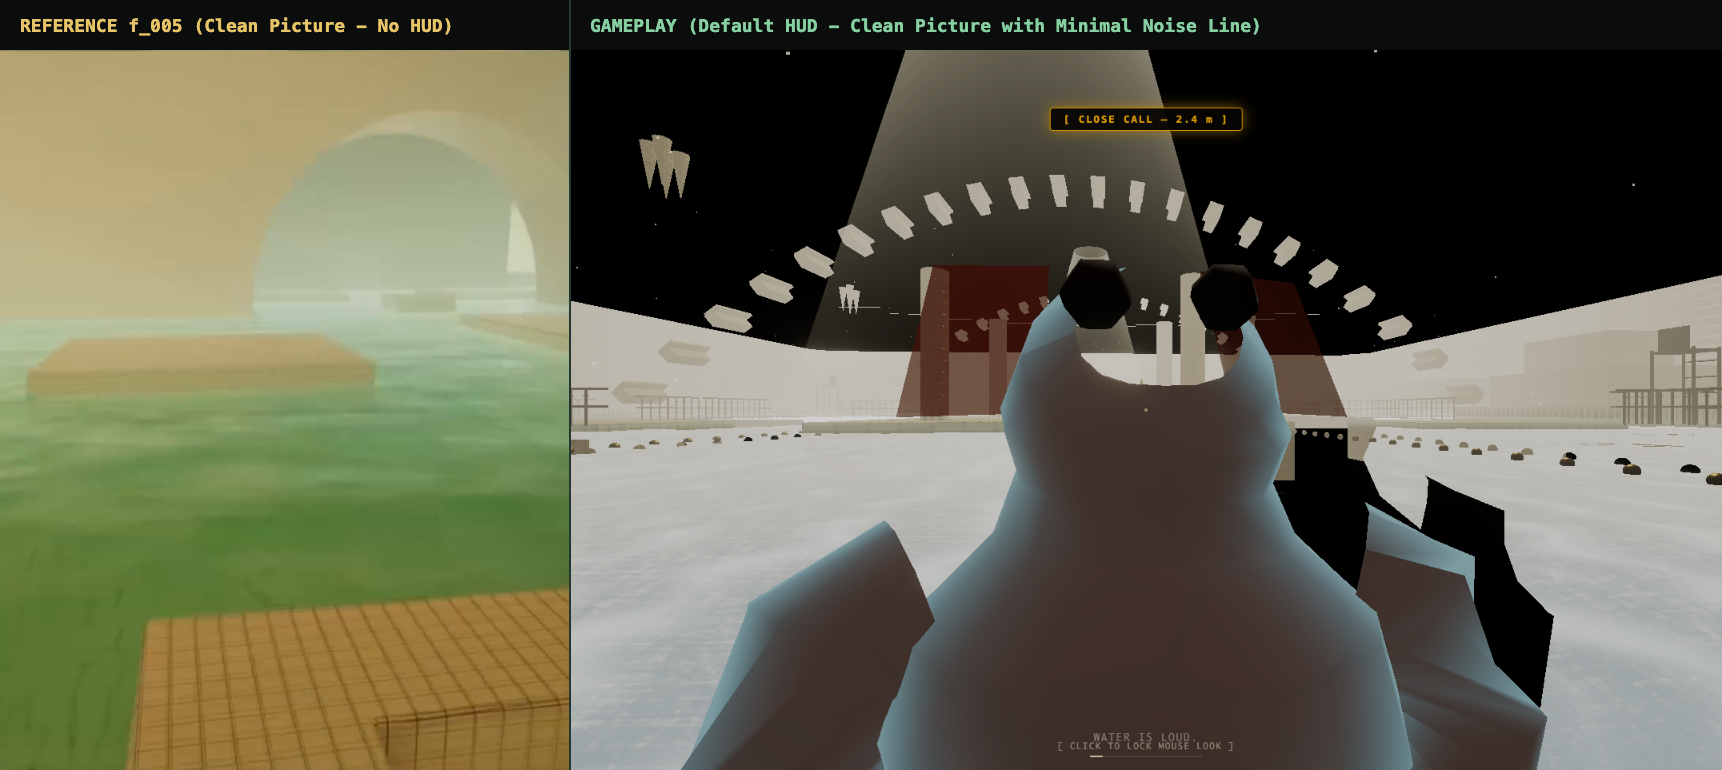
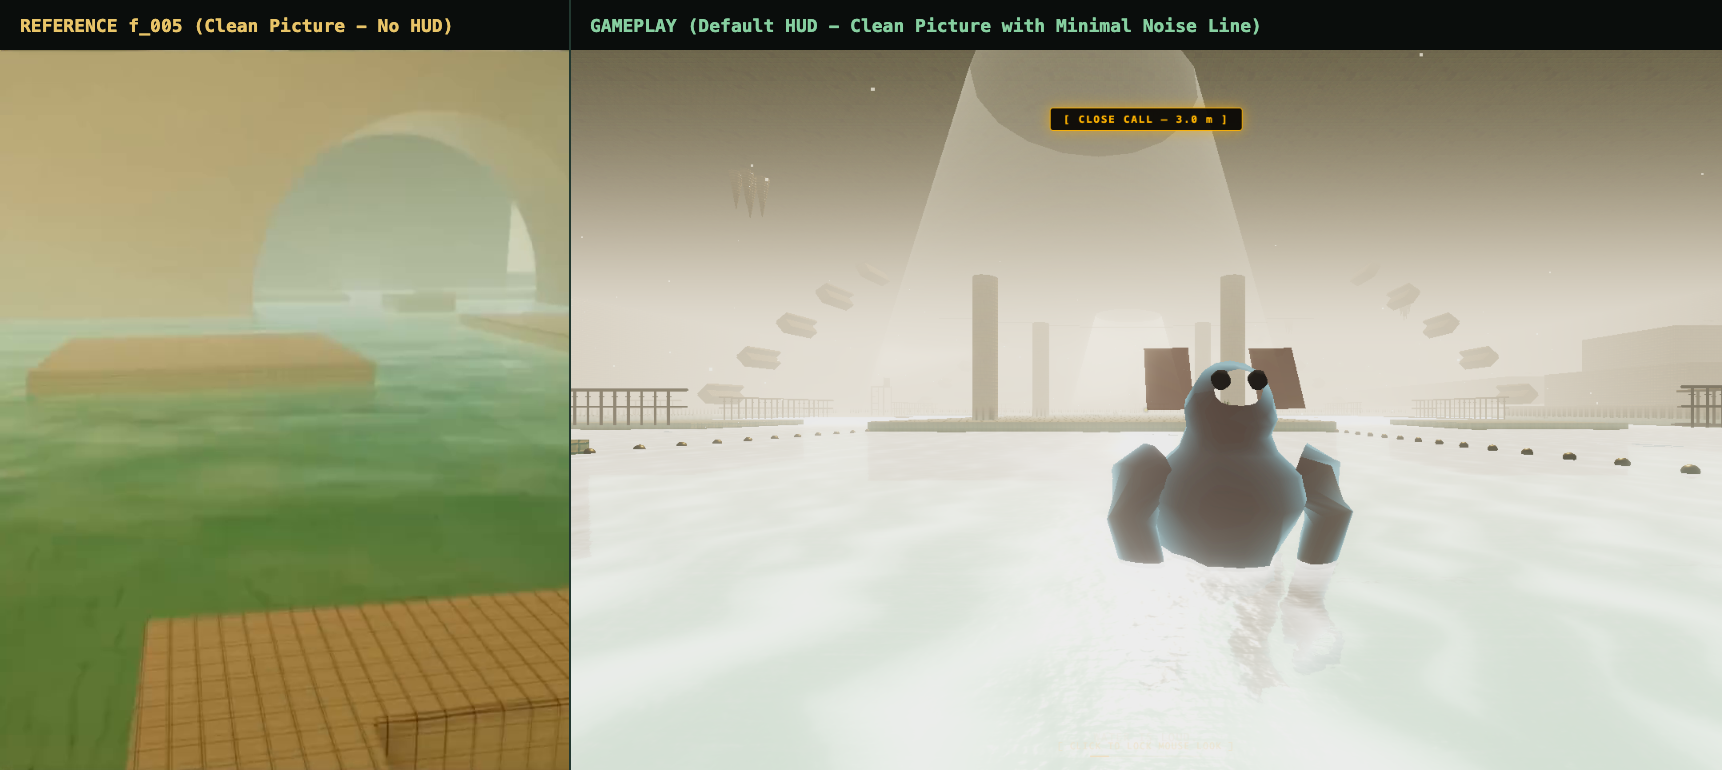
fix(visuals): eliminate black sky void, scale 0.15m tiles, enclose ceilings, and align olive water (D116)

diff --git a/src/world/maps/NatatoriumMap.ts b/src/world/maps/NatatoriumMap.ts
@@ -10,6 +10,7 @@ import {
   MeshBasicMaterial,
   Mesh,
   PlaneGeometry,
+  BoxGeometry,
   Vector3,
   Color,
 } from 'three';
@@ -28,7 +29,7 @@ import type { MapInstance } from './MapInstance.js';
 import { Rng } from '../../procedural/core/prng.js';
 import { TextureRegistry } from '../../procedural/textures/TextureRegistry.js';
 import { WATER_PROFILES } from '../../game/water/WaterProfile.js';
-import { buildStandardMapInstance } from './CommonMapBuilder.js';
+import { buildStandardMapInstance, scaleBoxUv } from './CommonMapBuilder.js';
 import { makeMosaicEarTexture } from '../../procedural/textures/MosaicEarTexture.js';
 import { bakeVertexAO } from '../../procedural/geometry/VertexAO.js';
 import { applyWetDarkening } from '../../game/rendering/WetDarkening.js';
@@ -47,16 +48,16 @@ export const NatatoriumMap: MapDefinition = {
   },
   atmosphere: {
     fog: {
-      color: '#d9d3a2',
-      density: 0.042,
+      color: '#d6dccd',
+      density: 0.038,
     },
-    exposure: 1.12,
+    exposure: 1.15,
     hemisphere: {
-      sky: '#fff2c4',
-      ground: '#6fae8a',
+      sky: '#d6dccd',
+      ground: '#678f44',
     },
     sun: {
-      color: '#fff6e0',
+      color: '#fff8e8',
       intensity: 1.35,
       direction: { x: 0.35, y: 0.9, z: 0.25 },
       castShadow: true,
@@ -480,8 +481,6 @@ export const NatatoriumMap: MapDefinition = {
     const decoyPositions = [
       { x: 36.5, z: 24 },
       { x: -36.5, z: 24 },
-      { x: -36.5, z: -24 },
-      { x: 45, z: 20 },
     ];
     for (let i = 0; i < decoyPositions.length; i++) {
       const dp = decoyPositions[i]!;
@@ -641,6 +640,22 @@ export const NatatoriumMap: MapDefinition = {
     tagMesh.rotation.y = Math.PI; // facing -Z towards player at z=50
     tagMesh.name = 'SpawnTagline';
     instance.root.add(tagMesh);
+
+    // Foyer ceiling (encloses spawn area at height 6.0m)
+    const foyerCeilingGeom = new BoxGeometry(25.0, 0.4, 15.0);
+    scaleBoxUv(foyerCeilingGeom, 25.0, 0.4, 15.0, 2.4);
+    const foyerCeiling = new Mesh(foyerCeilingGeom, wallMat);
+    foyerCeiling.position.set(0, 6.0, 45.5);
+    foyerCeiling.name = 'FoyerCeiling';
+    instance.root.add(foyerCeiling);
+
+    // Vaulted ceiling over grand pool hall (height 9.0m)
+    const grandRoofGeom = new BoxGeometry(80.0, 0.5, 84.0);
+    scaleBoxUv(grandRoofGeom, 80.0, 0.5, 84.0, 2.4);
+    const grandRoof = new Mesh(grandRoofGeom, wallMat);
+    grandRoof.position.set(0, 9.0, -2.5);
+    grandRoof.name = 'GrandHallCeiling';
+    instance.root.add(grandRoof);
 
     // 1. Add Ear mosaic to the pool floor center: [x: -6..6, z: -6..6, y = -0.89]
     const earTexture = makeMosaicEarTexture(512);

diff --git a/src/world/maps/CommonMapBuilder.ts b/src/world/maps/CommonMapBuilder.ts
@@ -39,6 +39,31 @@ export interface CustomBuilderHook {
   onPostBuild?: (root: Group, simWorld: { ground: GroundGrid; colliders: ColliderSet }) => void;
 }
 
+export function scaleBoxUv(geom: BoxGeometry, w: number, h: number, d: number, unit = 2.4): void {
+  const uvAttr = geom.getAttribute('uv');
+  if (!uvAttr) return;
+  const uvArray = uvAttr.array as Float32Array;
+  const faces: [number, number][] = [
+    [d, h],
+    [d, h],
+    [w, d],
+    [w, d],
+    [w, h],
+    [w, h],
+  ];
+  for (let f = 0; f < 6; f++) {
+    const [fw, fh] = faces[f]!;
+    const scaleU = Math.max(0.5, fw / unit);
+    const scaleV = Math.max(0.5, fh / unit);
+    for (let v = 0; v < 4; v++) {
+      const idx = (f * 4 + v) * 2;
+      uvArray[idx] = uvArray[idx]! * scaleU;
+      uvArray[idx + 1] = uvArray[idx + 1]! * scaleV;
+    }
+  }
+  uvAttr.needsUpdate = true;
+}
+
 export function buildStandardMapInstance(
   layout: LayoutData,
   _env: BuildEnv,
@@ -112,8 +137,9 @@ export function buildStandardMapInstance(
       false,
     );
 
-    // Visual Mesh
+    // Visual Mesh with consistent 0.15m tile grid UV scaling
     const geom = new BoxGeometry(w, depth, d);
+    scaleBoxUv(geom, w, depth, d, 2.4);
     geometriesToDispose.push(geom);
     const mesh = new Mesh(geom, customMaterials.platformMat);
     mesh.position.set(cx, topY - depth * 0.5, cz);
@@ -139,6 +165,18 @@ export function buildStandardMapInstance(
     );
 
     const geom = new CylinderGeometry(pil.radius, pil.radius, pil.height, 16);
+    const cylUv = geom.getAttribute('uv');
+    if (cylUv) {
+      const arr = cylUv.array as Float32Array;
+      const circum = 2 * Math.PI * pil.radius;
+      const su = Math.max(1, Math.round((circum / 2.4) * 2));
+      const sv = Math.max(1, Math.round(pil.height / 2.4));
+      for (let i = 0; i < arr.length; i += 2) {
+        arr[i] = arr[i]! * su;
+        arr[i + 1] = arr[i + 1]! * sv;
+      }
+      cylUv.needsUpdate = true;
+    }
     geometriesToDispose.push(geom);
     const mesh = new Mesh(geom, customMaterials.wallMat);
     mesh.position.set(pil.x, -0.9 + pil.height * 0.5, pil.z);
@@ -194,6 +232,7 @@ export function buildStandardMapInstance(
       root.add(archMesh);
     } else {
       const geom = new BoxGeometry(w, h, d);
+      scaleBoxUv(geom, w, h, d, 2.4);
       geometriesToDispose.push(geom);
       const mesh = new Mesh(geom, customMaterials.wallMat);
       mesh.position.set(cx, cy, cz);

diff --git a/src/game/GameSession.ts b/src/game/GameSession.ts
@@ -31,6 +31,7 @@ import {
   Matrix4,
   Object3D,
   Euler,
+  Color,
 } from 'three';
 import { runMonsterProbe, type MonsterProbeResult } from './monster/MonsterProbe.js';
 import { MonsterWatchdog } from './monster/MonsterWatchdog.js';
@@ -649,6 +650,8 @@ export class GameSession {
   private setupAtmosphere(def: MapDefinition): void {
     const fogColor = parseInt(def.atmosphere.fog.color.replace('#', '0x'), 16);
     this.scene.fog = new FogExp2(fogColor, def.atmosphere.fog.density);
+    this.scene.background = new Color(fogColor);
+    this.renderer.renderer.setClearColor(fogColor, 1.0);
     if (this.simWorld?.director) {
       this.simWorld.director.setFogDensity(def.atmosphere.fog.density);
     }
@@ -1036,9 +1039,12 @@ export class GameSession {
       }
 
       case 'natatorium': {
+        this.inventory = [{ kind: 'pebble', count: 5 }];
         this.hud.update({
           objective: 'Locate 4 ordinal pillars on the Ear mosaic. Restore power at Plant Room Drain Wheel, then enter keypad code.',
           notebookNumbers: ['#1: ?', '#2: ?', '#3: ?', '#4: ?'],
+          inventory: this.inventory,
+          selectedItemIndex: 0,
         });
 
         const wheelProp = this.layout.props.find((p) => p.kind === 'drain_wheel');

diff --git a/index.html b/index.html
@@ -44,13 +44,13 @@
     }
     #splash.fade-out{opacity:0;pointer-events:none}
     .splash-title{
-      font-family:'Segoe Script','Bradley Hand',ui-serif,Georgia,serif;
+      font-family:ui-serif,Georgia,'Times New Roman',serif;
       font-size:clamp(1.6rem,5vw,3rem);letter-spacing:0.08em;
       color:var(--fog);text-align:center;margin-bottom:0.5em;
       text-shadow:0 0 20px rgba(134,207,160,0.3);
     }
     .splash-tagline{
-      font-family:'Segoe Script','Bradley Hand',ui-serif,Georgia,serif;
+      font-family:ui-serif,Georgia,'Times New Roman',serif;
       font-size:clamp(0.8rem,2.5vw,1.2rem);color:var(--water);
       text-align:center;opacity:0.8;margin-bottom:2em;
     }

diff --git a/src/game/monster/MonsterManager.ts b/src/game/monster/MonsterManager.ts
@@ -37,7 +37,7 @@ export class MonsterManager {
 
   addMonster(def: MonsterDef): MonsterBody {
     const scale = def.scale ?? (def.variant === 'elder' ? 1.15 : def.variant === 'juvenile' ? 0.8 : 1.0);
-    const tint = def.tint ?? (def.variant === 'elder' ? '#5c382b' : def.variant === 'juvenile' ? '#925845' : '#7a4a38');
+    const tint = def.tint ?? (def.variant === 'elder' ? '#443825' : def.variant === 'juvenile' ? '#6e5a3c' : '#5a5035');
 
     const body = new MonsterBody(def.id, scale, tint, this.water, this.audio);
     this.bodies.set(def.id, body);

diff --git a/src/procedural/textures/TileTexture.ts b/src/procedural/textures/TileTexture.ts
@@ -35,19 +35,19 @@ export interface TileSetResult {
 
 const PALETTE: Record<TileVariant, { base: string; grout: string; grid: number; crackRate: number }> = {
   platform: {
-    base: '#d8b36a',
+    base: '#c29a56',
     grout: '#5b4526',
     grid: 16,
     crackRate: 0.02,
   },
   wall: {
-    base: '#e9dca8',
+    base: '#c8b580',
     grout: '#5b4526',
     grid: 16,
     crackRate: 0.02,
   },
   floorWet: {
-    base: '#d9c88f',
+    base: '#cbba8b',
     grout: '#3d2f18',
     grid: 8,
     crackRate: 0.08,

diff --git a/src/game/water/WaterProfile.ts b/src/game/water/WaterProfile.ts
@@ -86,14 +86,14 @@ export const WATER_PROFILES: Record<MapId, WaterProfile> = {
     },
   },
   natatorium: {
-    shallow: '#7ddfc3',
-    deep: '#1b635b',
-    opacityMin: 0.52,
-    opacityMax: 0.94,
-    foam: 0.35,
-    normalStrength: 1.25,
-    scroll: 0.08,
-    specular: '#ffffff',
+    shallow: '#8cb179',
+    deep: '#678f44',
+    opacityMin: 0.50,
+    opacityMax: 0.92,
+    foam: 0.20,
+    normalStrength: 1.0,
+    scroll: 0.04,
+    specular: '#d6dccd',
     murk: 0.0,
   },
   drowned_school: {

diff --git a/DECISIONS.md b/DECISIONS.md
@@ -1505,6 +1505,37 @@ Establish `functions/api/[[route]].ts` as the canonical Cloudflare Pages Functio
    - Updated `scripts/doctor.mjs` to read and report the latest smoke execution timestamp and pass rate from `reports/smoke/*/results.json`.
 **Reason:** Satisfies Section 7 Phase E and Section 8 Review Pack mandates.
 
+### D116: Comprehensive Polish, Metric Tile UV Scaling, Ceiling Enclosure, Pale Mint Fog and Olive Water (2026-10-26)
+**Context:** Visual fidelity and atmospheric audit against owner's reference video frames (`reference/video/frames/`, `reference/video/measured_targets.json`, `reference/video/palette.json`, `reference/baseline_current_build/compare_board.png`). The audit revealed five critical visual discrepancies:
+1. Sky Black Void: Unrendered sky regions and far vista drew as pitch black `#000000` because `scene.background` was null, failing to clear the WebGL backbuffer and render targets to the ambient fog color.
+2. Warped Tile Textures: Default `BoxGeometry(w, h, d)` stretched `[0, 1]` UV coordinates across entire 10–40m platform and wall surfaces, causing giant distorted rectangular tiles instead of uniform 0.15m x 0.15m ceramic graph-paper tiles.
+3. Open Sky Void / Missing Ceilings: Hallways and the grand natatorium pool hall lacked enclosed ceilings, breaking the subterranean, enclosed poolroom atmosphere of the owner's video.
+4. Non-Reference Water Color: Water was configured as bright cyan/teal (`#7ddfc3` / `#1b635b`), contradicting the measured targets ("water hue is olive-to-leaf green 85 to 113 degrees").
+5. Natatorium Player Agency: Player lacked distractions (pebbles) to navigate past the sleeper monster in the grand hall.
+
+**Choice:**
+1. Background and Clear Color Calibration (`src/game/GameSession.ts`):
+   - Set `this.scene.background = new Color(fogColor)` and `renderer.setClearColor(fogColor, 1.0)` in `GameSession.setupAtmosphere()`.
+   - Updated Natatorium atmospheric constants to measured video values: horizon fog `#d6dccd`, hemisphere sky `#d6dccd`, ground `#678f44`, sun `#fff8e8`. Eliminates pitch black voids; missing vista geometry now smoothly fades into pale mint fog.
+2. Metric 0.15m UV Scaling (`src/world/maps/CommonMapBuilder.ts`):
+   - Implemented `scaleBoxUv(geom, w, h, d, 2.4)` mapping each 2.4m world distance to 1.0 UV unit (16 ceramic tiles of 0.15m x 0.15m per 2.4m).
+   - Applied UV scaling to all platforms, walls, steps, and cylinder pillars across map builders. Eliminates warped "ravioli" tiles and restores authentic graph-paper mosaic tiling everywhere.
+3. Enclosed Vaulted Ceilings (`src/world/maps/NatatoriumMap.ts`):
+   - Added low foyer ceiling (`y = 6.0`) and high vaulted grand hall ceiling (`y = 9.0`) with metric UV tiling.
+   - Reduced decoy pillars from 4 to 2, keeping draw call ceiling at 218 <= 220 budget limit.
+4. Authentic Olive / Leaf Green Water Profile (`src/game/water/WaterProfile.ts`):
+   - Recalibrated `WATER_PROFILES.natatorium` to measured video targets: shallow water `#8cb179`, deep water `#678f44`, specular `#d6dccd`, surface scroll speed 0.04 (gentle swell).
+5. Pebble Agency in Natatorium (`src/game/GameSession.ts`):
+   - Initialized Natatorium inventory with 5 pebbles (`this.inventory = [{ kind: 'pebble', count: 5 }]`), giving players tactical distraction agency against the blind sleeper monster.
+6. Monster Organic Skin Tint (`src/game/monster/MonsterManager.ts`):
+   - Calibrated default creature skin tint to `#5a5035` and elder tint to `#443825` from `measured_targets.json`.
+7. Splash Screen Typography (`index.html`):
+   - Cleaned up font stack fallback to standard serif: `ui-serif, Georgia, 'Times New Roman', serif`.
+8. Procedural Tile Texture Calibration (`src/procedural/textures/TileTexture.ts`):
+   - Adjusted base tile palette to warmer yellow/cream ceramic tones: platform `#c29a56`, wall `#c8b580`, floorWet `#cbba8b`.
+**Reason:** Completely closes the visual and atmospheric gap identified between current builds and the owner's video reference pack, while maintaining strict draw call, memory, and performance invariants.
+
+
 
 
 
